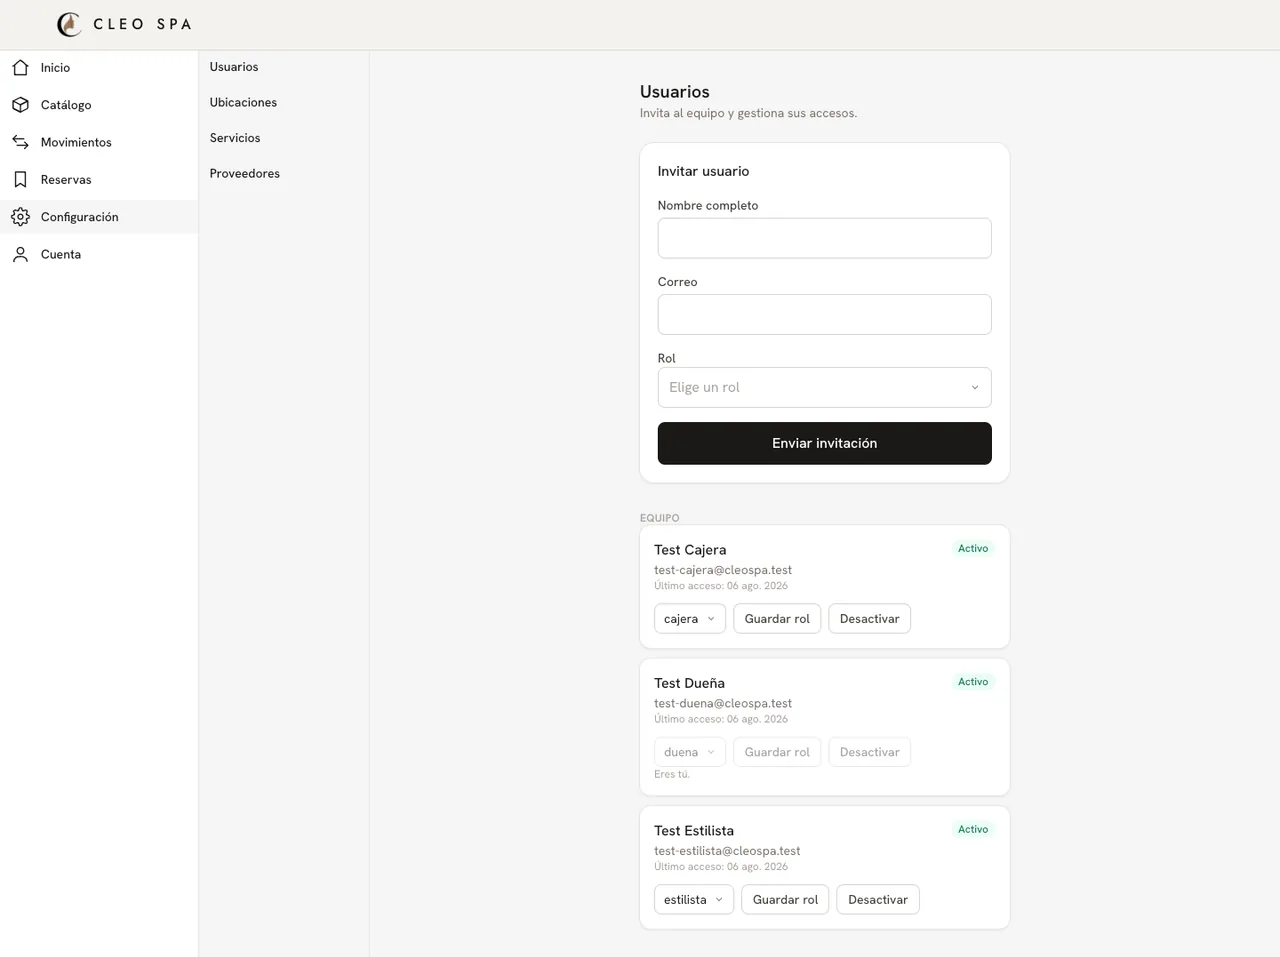
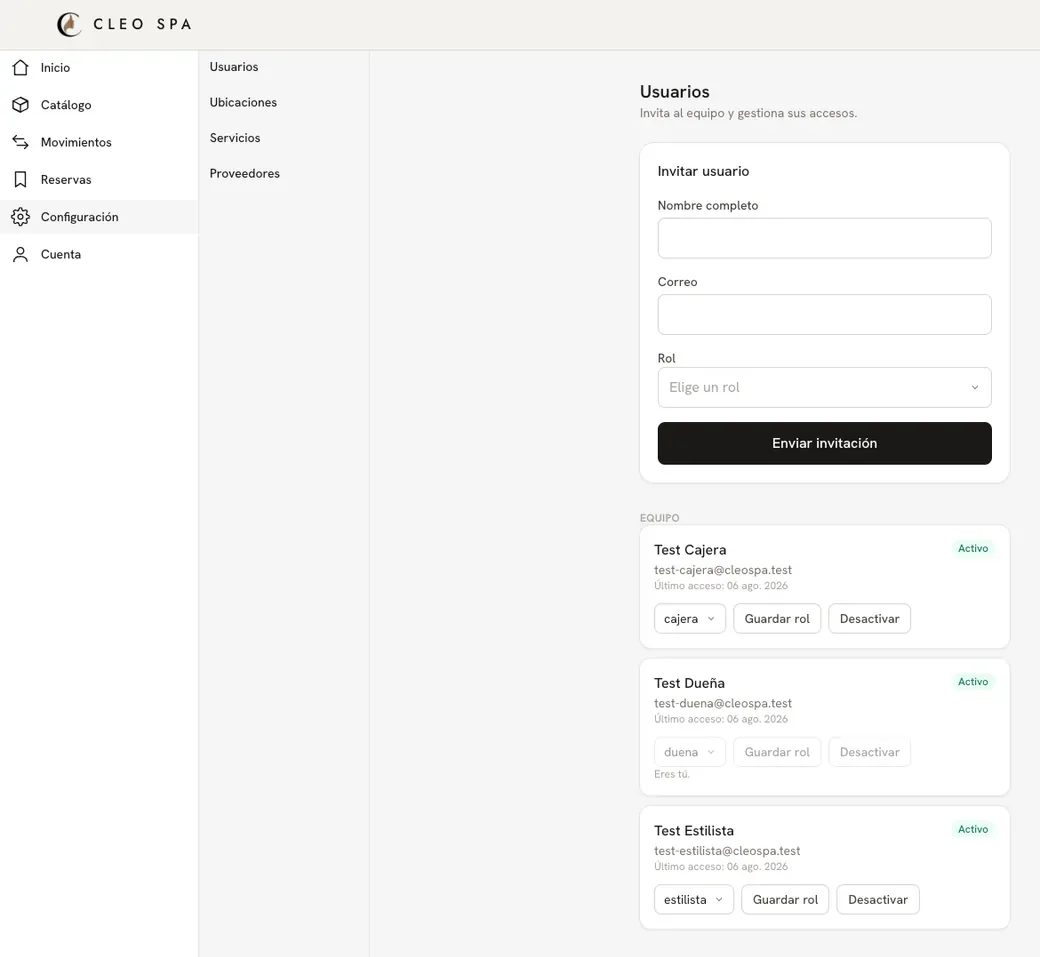
fix: tarjeta de Cleo Spa con el panel de movimientos y recorte de usuarios
La tarjeta del grid usaba la portada del catálogo público — la vitrina —
cuando el argumento del proyecto es la herramienta diaria. Ahora usa el
panel de movimientos: entrada nueva cleo-spa-card en SOURCES (target card,
768×384) y la ficha de site.*.ts apunta a los derivados nuevos con un alt
que describe el panel, no el catálogo.

La captura de usuarios traía una banda de lienzo vacío a la derecha que
bajaba la densidad de la lámina frente a movimientos y catálogo. `region`
gana recorte horizontal — { top, left, height, width }, todos opcionales —
y usuarios conserva el 81% izquierdo (sidebar + formulario de invitación +
tarjetas de roles). De paso, el chequeo de ancho mínimo valida la región y
no el origen completo: antes un recorte angosto se escalaba hacia arriba en
silencio.

Los derivados commiteados son interinos: raw/ no está en este entorno, así
que salen del derivado screen existente (re-encodado, no desde el PNG).
Correr `pnpm images` con raw/ presente los regenera limpios; las coordenadas
de la región asumen un raw de 1920 de ancho y el ancho declarado de usuarios
(1280×1178) es el que emitirá ese pipeline. La altura declarada previa (707)
ya no correspondía al archivo real (957).

Verificado: 13–20 KB por archivo servido, muy por debajo del presupuesto;
lint, typecheck y build verdes; 28/28 de Playwright en claro y oscuro;
revisión visual del grid y del mini-caso en 1440 y 390 px, ambos temas.

diff --git a/src/content/site.es.ts b/src/content/site.es.ts
@@ -122,11 +122,11 @@ export const cleoSpa: Project = {
     external: false,
   },
   image: {
-    src: "/screenshots/cleo-spa.webp",
-    avif: "/screenshots/cleo-spa.avif",
+    src: "/screenshots/cleo-spa-card.webp",
+    avif: "/screenshots/cleo-spa-card.avif",
     width: 768,
     height: 384,
-    alt: "Portada del catálogo público: titular sobre el diagnóstico previo al servicio, con botón para reservar cita.",
+    alt: "Panel de movimientos de inventario: tabla de entradas, ventas, consumos y mermas, cada fila con producto, cantidad firmada, ubicación, fecha y autor.",
   },
 };
 

diff --git a/src/content/cleo-spa.es.ts b/src/content/cleo-spa.es.ts
@@ -55,7 +55,7 @@ export const miniCase: MiniCase = {
           src: "/screenshots/cleo-spa-usuarios.webp",
           avif: "/screenshots/cleo-spa-usuarios.avif",
           width: 1280,
-          height: 707,
+          height: 1178,
           alt: "Pantalla de usuarios: formulario de invitación con selector de rol y tres cuentas del equipo, cada una con su rol y un botón para desactivarla.",
         },
         caption:
